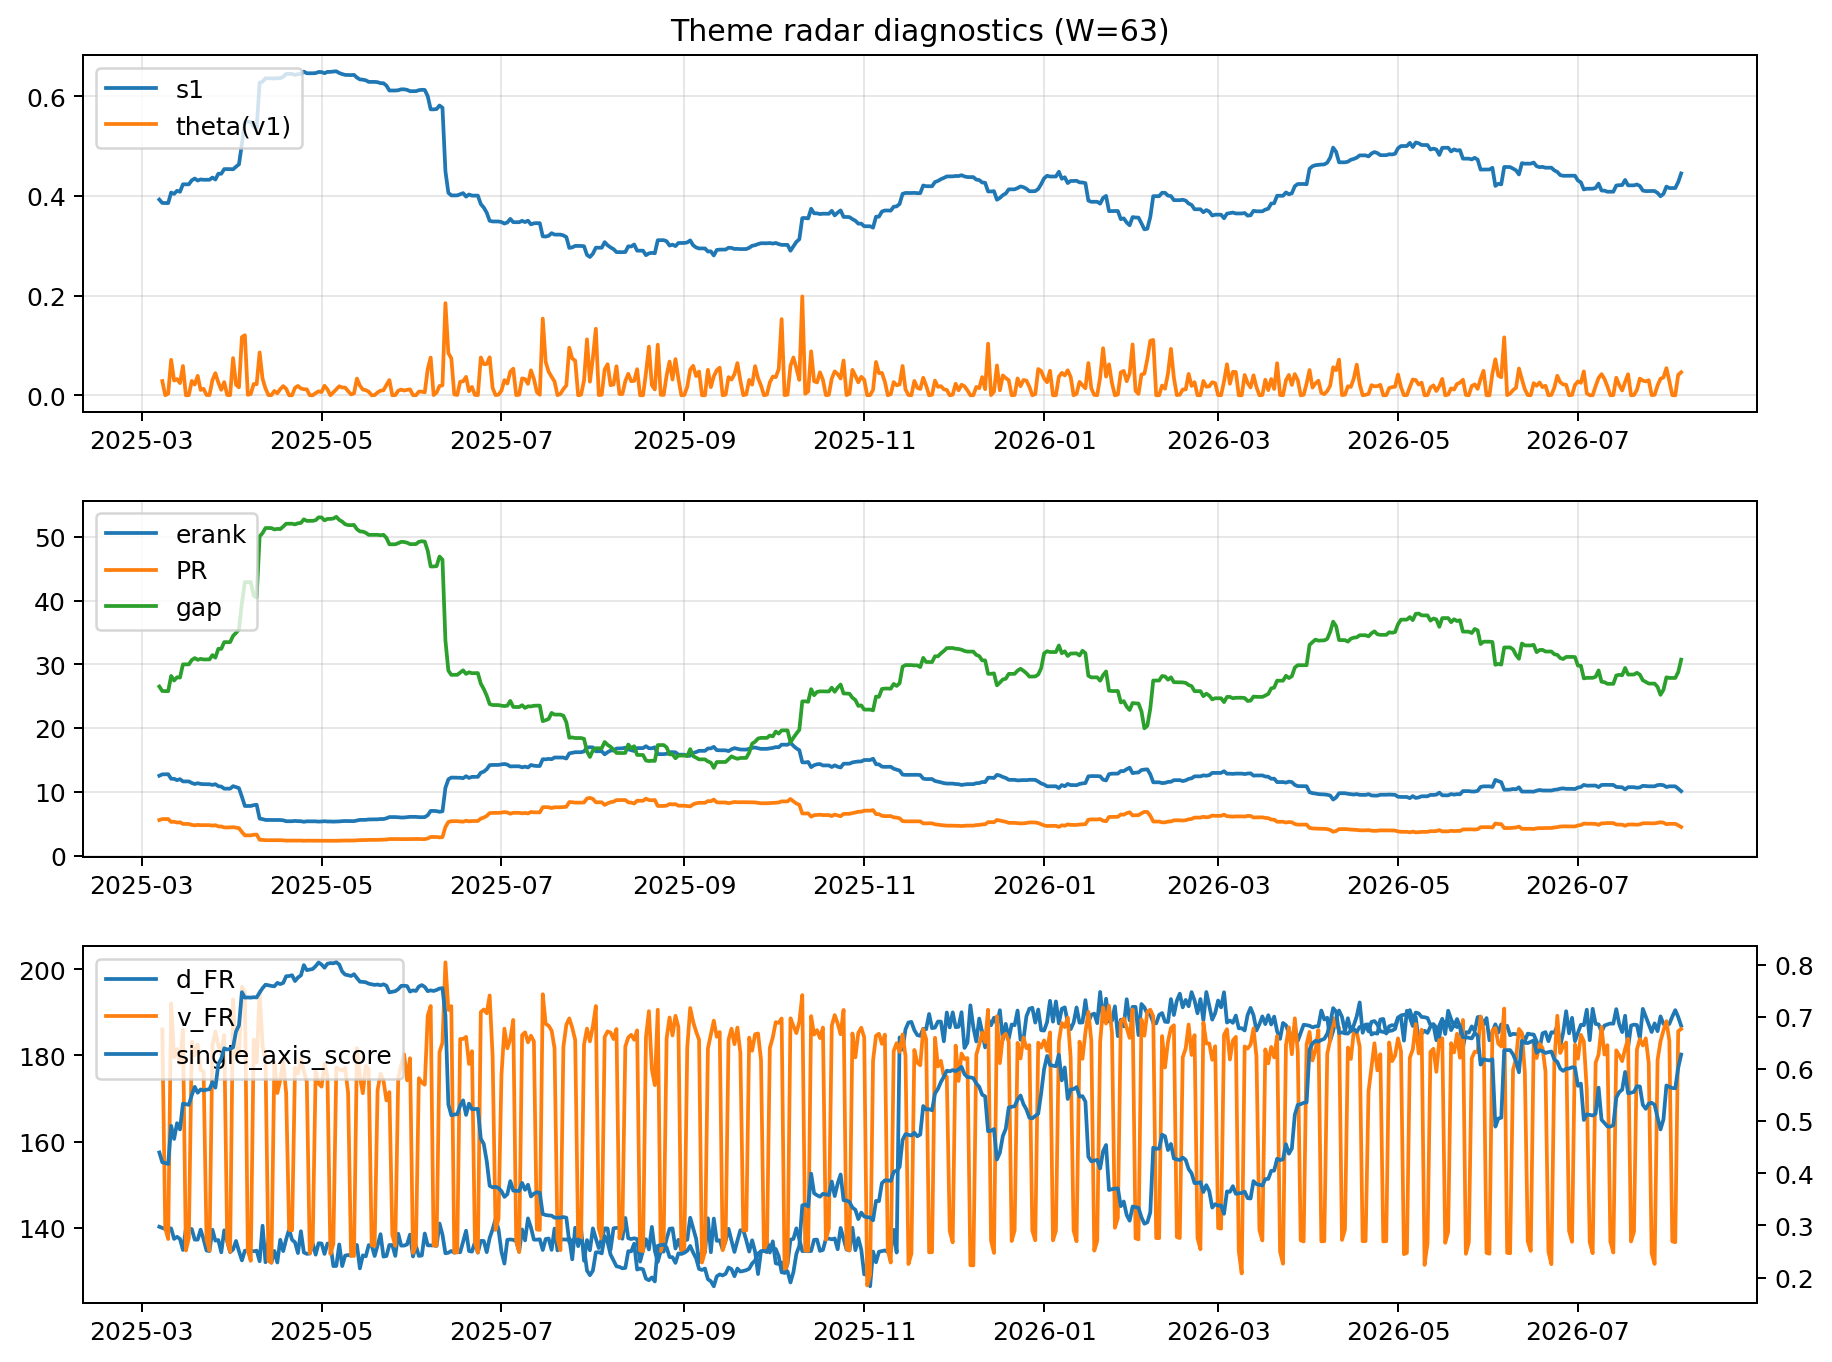
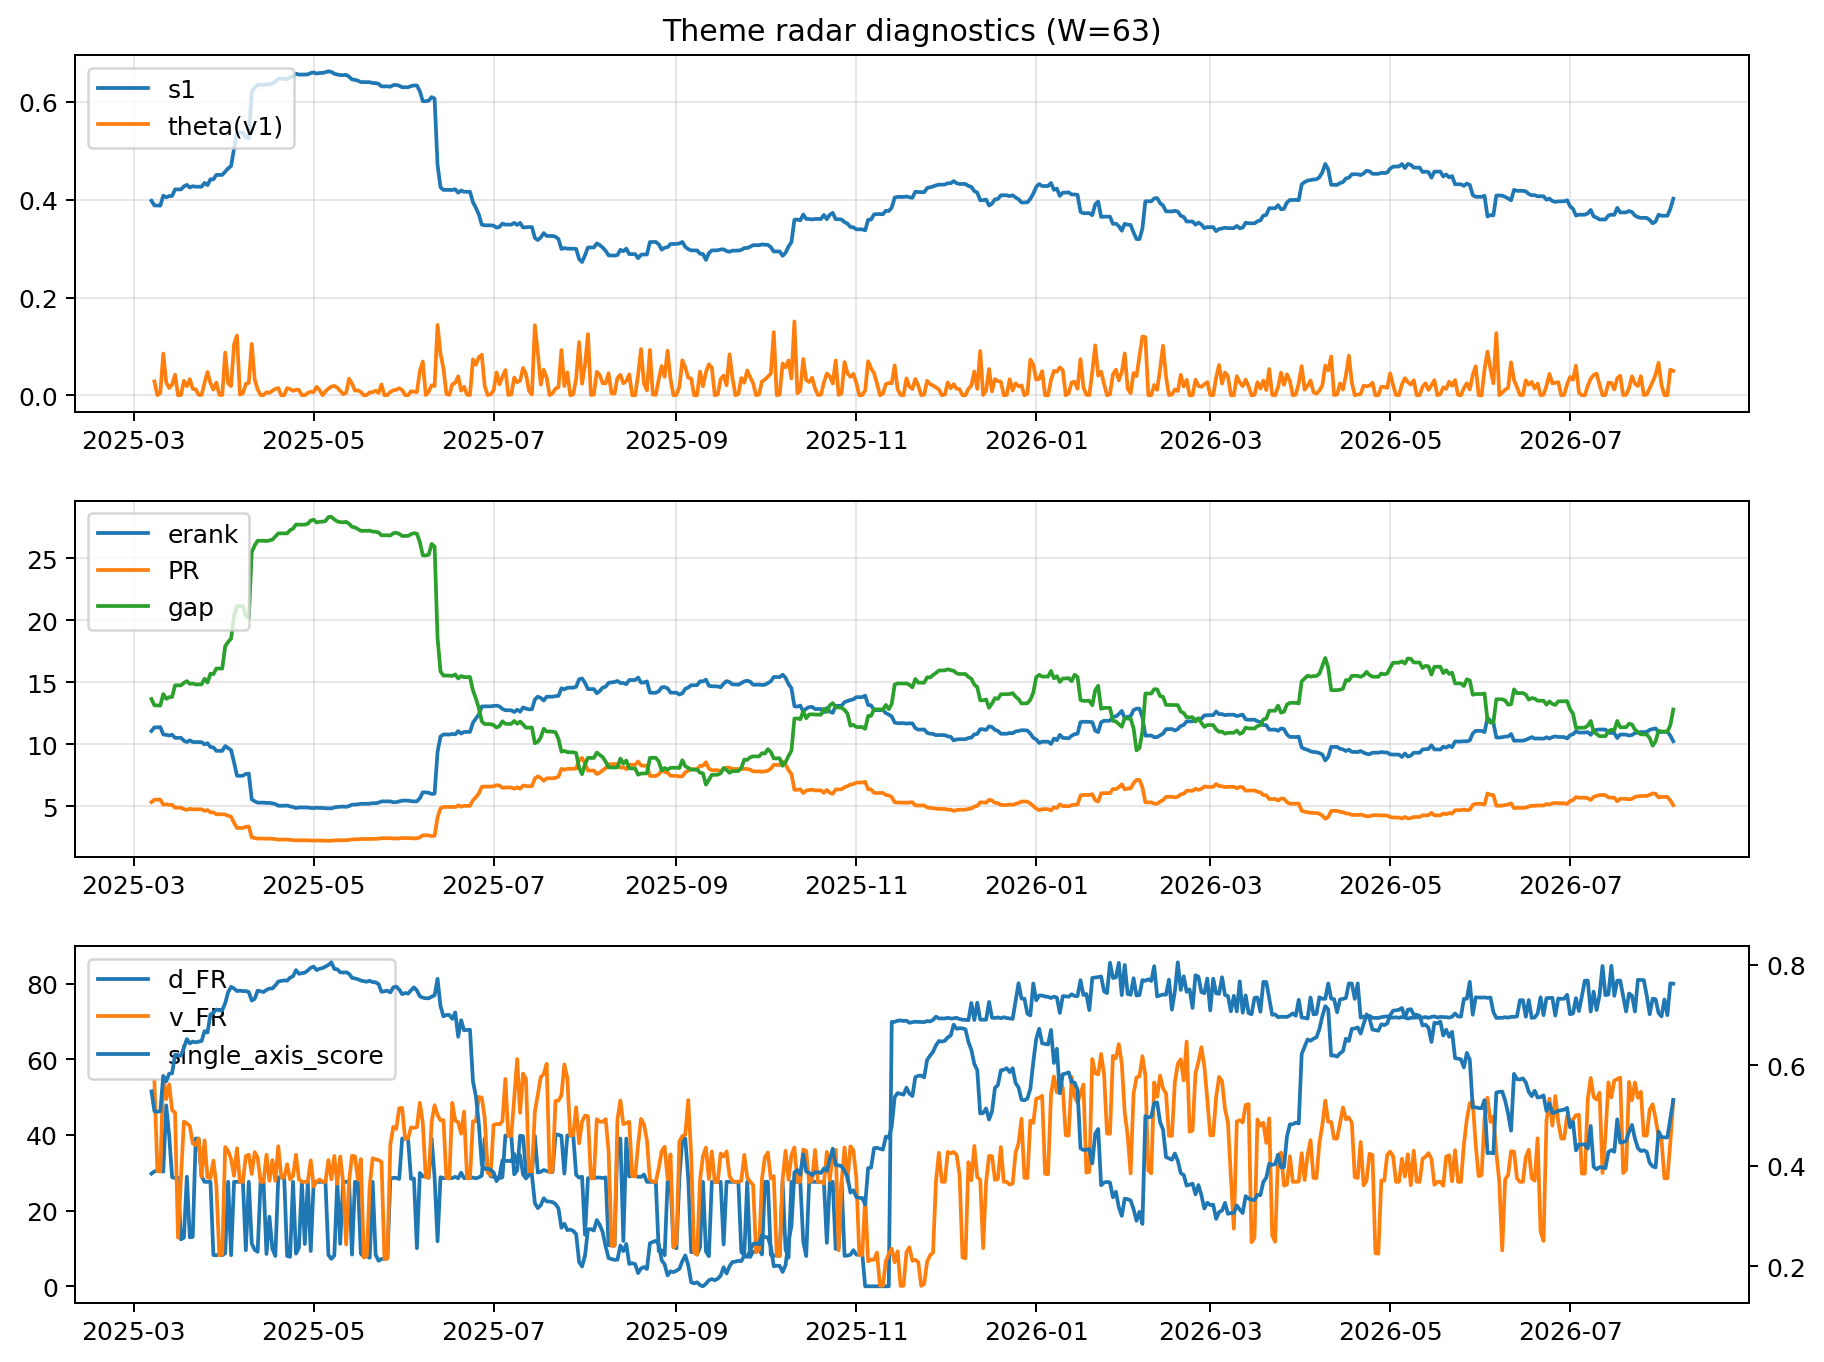
log: 2026-08-05 | sha256:9ae37d49b0e24cf58224a86a5d9877c40af9bc06fb7b1c78e94154826e0bb1fe

diff --git a/logs/2026-08-05.md b/logs/2026-08-05.md
@@ -3,52 +3,52 @@
 ![diagnostic W63](../assets/diagnostic/2026-08-05_W63.png)
 
 ## Leaders (v1) — W=63
-- **Nuclear_Uranium** (0.0860076294633786)
-- Semis (0.0655938493573032)
-- Quantum (0.0566437907458855)
+- **Grid_Power** (0.1030416495477602)
+- Crypto (0.0809233194259459)
+- DataCenter_Infra (0.0604896419814293)
 
 ## Challengers — W=63
-**v2:** Semis (0.087848444215308), Rates (0.0788569441012883), Software_Cloud (0.0678812959015164)
-**v3:** Software_Cloud (0.0759974868528678), DataCenter_Infra (0.0708369036361847), Rates (0.0617292953213965)
+**v2:** Grid_Power (0.132809735454108), Crypto (0.1006232237181635), Software_Cloud (0.0855590156914116)
+**v3:** DataCenter_Infra (0.2081490656266403), Cyber (0.0747887458085488), Software_Cloud (0.0635285756779762)
 
 ## Migration (20D slope) — W=63
 **Top risers:**
-- axis_Quantum: 0.0005529021143773
-- axis_Space: 0.0002857638196228
-- axis_Crypto: 0.0002832962600755
-- axis_Nuclear_Uranium: 0.0002203718736032
-- axis_Semis: 0.0001865077001482
-- axis_Sector_RealEstate: 0.0001570323453805
-- axis_Drones_Autonomy: 0.0001406409768854
-- axis_Cyber: 0.0001317049959834
-- axis_Sector_Health: 8.034479147157714e-05
-- axis_Robotics: 6.567429047145873e-05
+- axis_Crypto: 0.000498848072985
+- axis_Space: 0.0004450699280637
+- axis_Drones_Autonomy: 0.0003332980492437
+- axis_Cyber: 0.0002620447969728
+- axis_Semis: 0.000250180455513
+- axis_Nuclear_Uranium: 0.0001957701597926
+- axis_Grid_Power: 0.000167604362097
+- axis_Sector_Health: 0.0001259755917872
+- axis_Sector_Tech: 0.0001018224219064
+- axis_Sector_Fin: 6.362184064503704e-05
 
 **Top fallers:**
-- axis_Commodities: -8.595398011615735e-05
-- axis_USD: -0.0001076761432505
-- axis_Defense: -0.0001177630633493
-- axis_Sector_ConsDisc: -0.000147142148824
-- axis_Sector_Energy: -0.0001528487269704
-- axis_DataCenter_Infra: -0.0001590117867724
-- axis_Sector_Comm: -0.000182016669067
-- axis_Credit: -0.0001937926523141
-- axis_Sector_Materials: -0.0002114056247253
-- axis_Rates: -0.0007698658602483
+- axis_Critical_Minerals: -2.399572080606107e-05
+- axis_Metals: -2.6390448627566137e-05
+- axis_Software_Cloud: -0.0001396409790085
+- axis_DataCenter_Infra: -0.0001526357687716
+- axis_Credit: -0.0002276914795712
+- axis_USD: -0.0002336365772003
+- axis_Sector_Materials: -0.0003877709101528
+- axis_Sector_Comm: -0.0004090159749403
+- axis_MegaCap_AI: -0.0004548945142954
+- axis_Rates: -0.0004687424342747
 
 ## Risk line (W=63)
-- s1: 0.4449961611305231
-- theta_v1: 0.046146582514491
-- v_FR: 186.16159925112848
-- single_axis_score: 0.6274661508704062
+- s1: 0.4020636330621298
+- theta_v1: 0.0498969374421618
+- v_FR: 49.17156512517752
+- single_axis_score: 0.5311411992263056
 
 ## Interpretation
 **Regime:** `theme_migration`
 
-- Action: Tomorrow watchlist: Quantum, Space, Crypto, Nuclear_Uranium, Semis + v2_top1=Semis
+- Action: Tomorrow watchlist: Crypto, Space, Drones_Autonomy, Cyber, Semis + v2_top1=Grid_Power
 - Action: Hedge note: normal correlation stability.
 
-- Percentiles (W=63 history): vfr_pct=0.84, theta_pct=0.83, s1_pct=0.69, score_pct=0.71.
+- Percentiles (W=63 history): vfr_pct=0.84, theta_pct=0.85, s1_pct=0.54, score_pct=0.54.
 
 ---
[2 lines of base64/hex data omitted]
